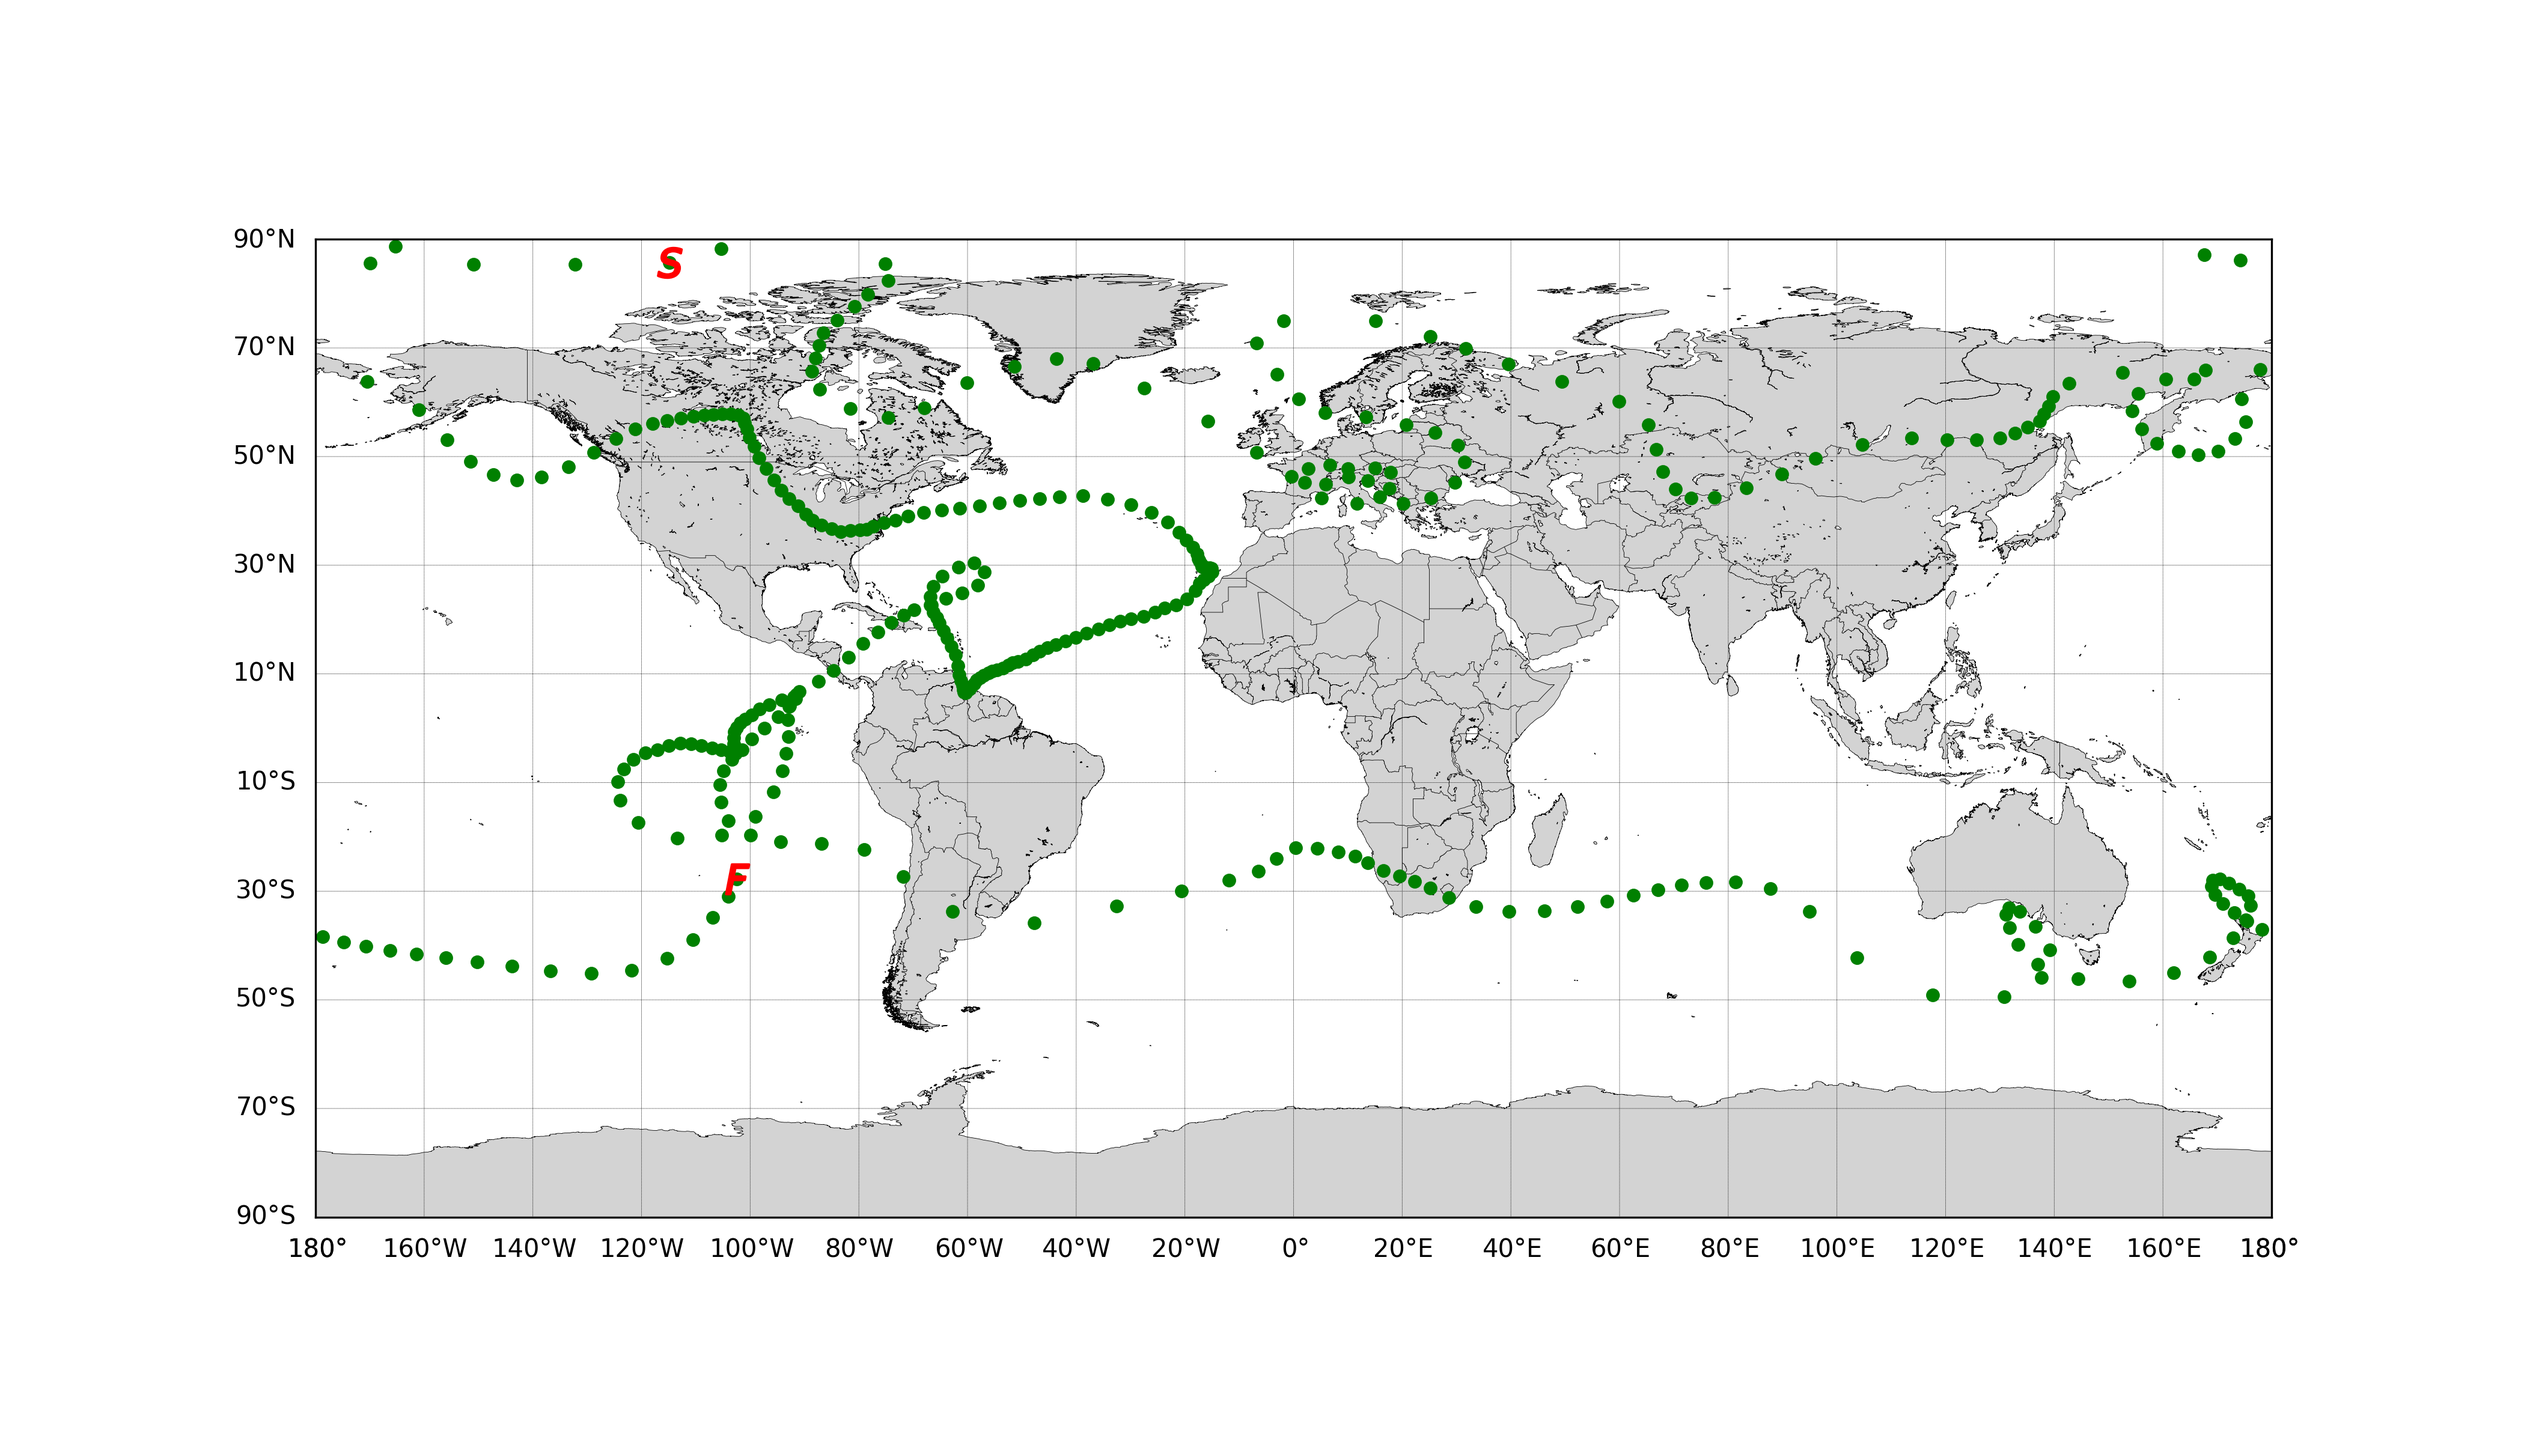
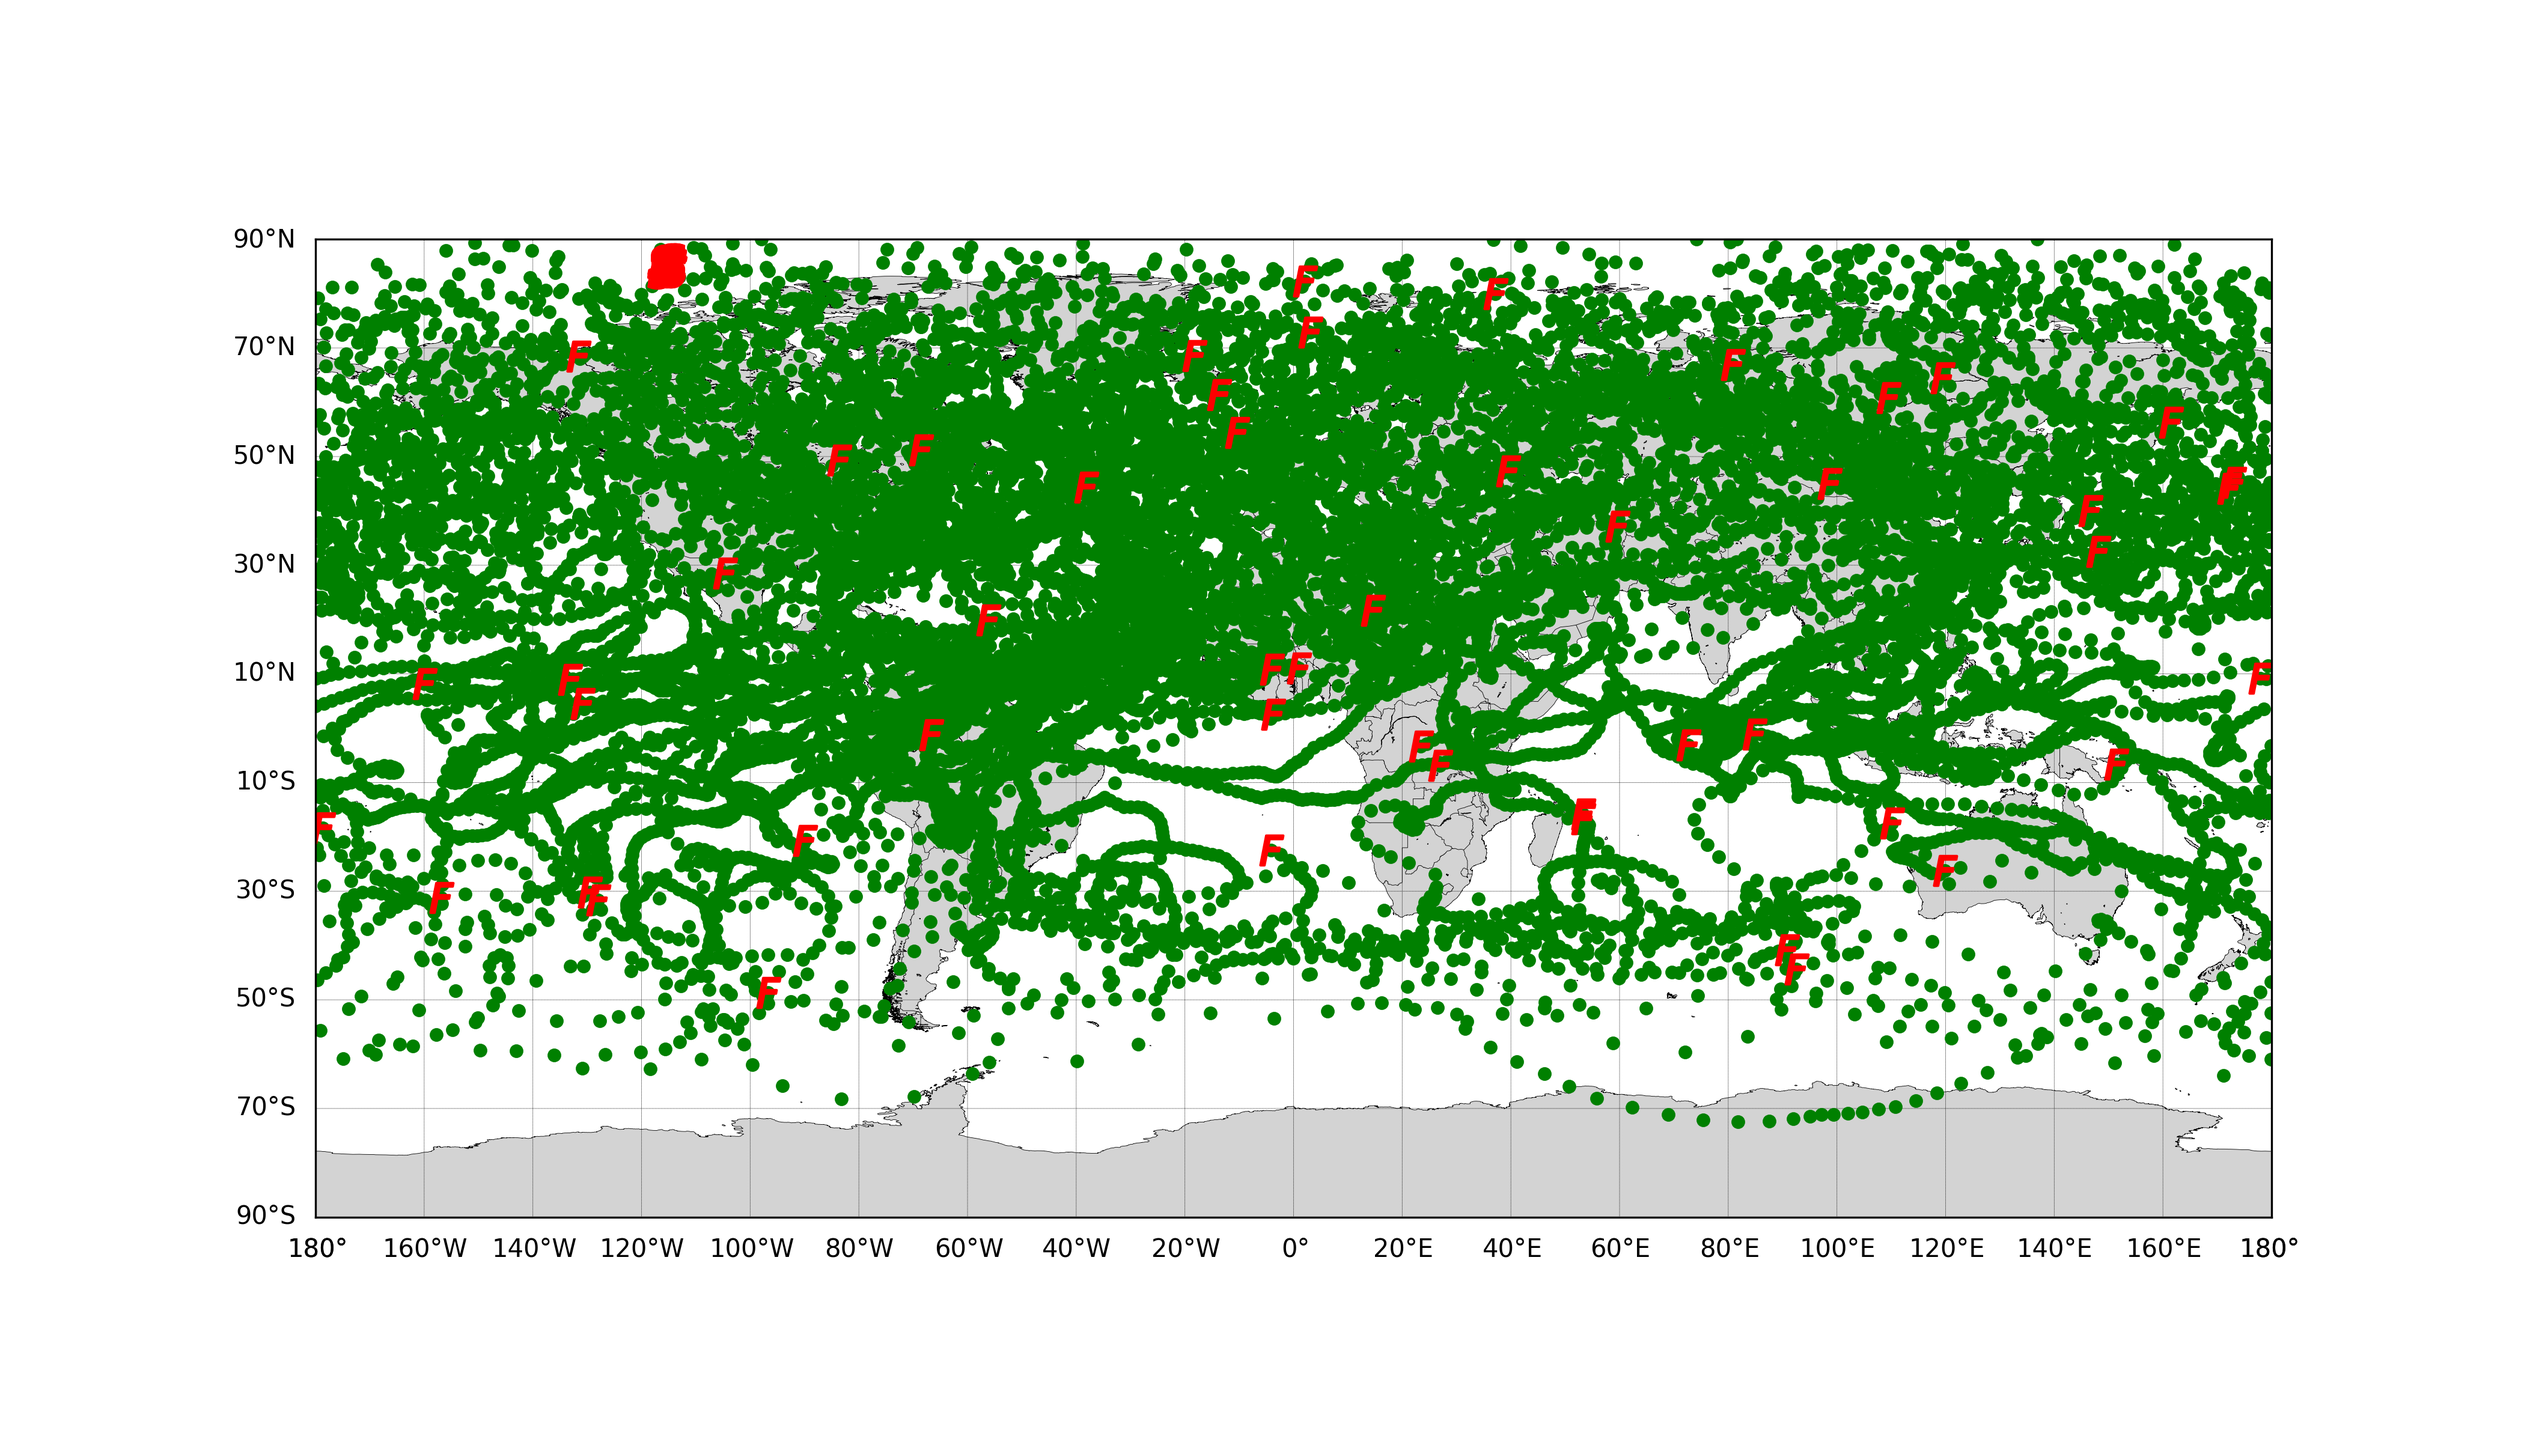
sdnbcxj

Changed region(s): [[0.1248, 0.1562, 0.9045, 0.75], [0.6862, 0.75, 0.7798, 0.7812]]

diff --git a/A04_GroupFiles_27 February, 2023 1109/sample_script.py b/A04_GroupFiles_27 February, 2023 1109/sample_script.py
@@ -16,12 +16,12 @@ import matplotlib.colors #To create new colorbar
 # =============================================================================
 
 #USER INPUT - File path
-f_string = 'C:/Users/31683/Desktop/project data/*' #Insert file path to input data, do not forget wildcard
+f_string = "C:/Users/joren/Documents/project data/Winter300/*" #Insert file path to input data, do not forget wildcard
 
 #USER INPUT - Switches to determine which data types should be loaded
 attila_switch = True
-o3tracer_switch = True
-rad_fluxes_switch = True
+o3tracer_switch = False
+rad_fluxes_switch = False
 
 #Read in file names based on f_string variable
 filenames_all = sorted(glob.glob(f_string)) #Get all file names in f_string
@@ -46,32 +46,32 @@ global_net_flx = [] #Holds all net fluxes for the 28 EPs (3 months)
 #Positions of air parcels
 if attila_switch == True:
     for file in filenames_all:
-        if 'attila.nc' in file:
-            data = Dataset(file,'r')
-            print('\n')
-            print('File loaded: ')
-            print(file)
-            
-            #Latitudes and longitudes
-            lats = data.variables['lat'][:]
-            lons_0to36 = data.variables['lon'][:] #Varies from 0 to 360 deg
-            lons_18to18 = data.variables['lon'][:] #Will be converted later to -180 to 180 deg
-            
-            #Time
-            temp = data.variables['time'][:]
-            time.append(temp)
-            
-            #Air parcel longitudinal position
-            temp = data.variables['PLON'][:]
-            plon.append(temp)
-            
-            #Air parcel latitudinal position
-            temp = data.variables['PLAT'][:]
-            plat.append(temp)
-            
-            #Air parcel pressure altitude
-            temp = data.variables['PPRESS'][:]
-            ppress.append(temp)
+        
+        data = Dataset(file,'r')
+        print('\n')
+        print('File loaded: ')
+        print(file)
+        
+        #Latitudes and longitudes
+        lats = data.variables['lat'][:]
+        lons_0to36 = data.variables['lon'][:] #Varies from 0 to 360 deg
+        lons_18to18 = data.variables['lon'][:] #Will be converted later to -180 to 180 deg
+        
+        #Time
+        temp = data.variables['time'][:]
+        time.append(temp)
+        
+        #Air parcel longitudinal position
+        temp = data.variables['PLON'][:]
+        plon.append(temp)
+        
+        #Air parcel latitudinal position
+        temp = data.variables['PLAT'][:]
+        plat.append(temp)
+        
+        #Air parcel pressure altitude
+        temp = data.variables['PPRESS'][:]
+        ppress.append(temp)
     
     #Concatenation of variables, lists become multi-dimensional numpy arrays
     time = np.concatenate(time, axis=0)
@@ -271,14 +271,14 @@ if attila_switch == True:
     mp.fillcontinents(color='lightgray')
     
     #Plot a Lagrangian air parcel with parcel ID given by "parcel2"
-    ax.scatter(plon[:,parcel2], plat[:,parcel2], s=20, marker='o', color='green',
+    ax.scatter(plon[:,:50], plat[:,:50], s=20, marker='o', color='green',
                zorder=2)
     
     #Plot start and end points with an "S" and "F" respectively.
-    ax.scatter(plon[0,parcel2], plat[0,parcel2], s=140, marker='$S$', color='red',
+    ax.scatter(plon[0,:50], plat[0,:50], s=140, marker='$S$', color='red',
                zorder=2)
     
-    ax.scatter(plon[-1,parcel2], plat[-1,parcel2], s=140, marker='$F$', color='red',
+    ax.scatter(plon[-1,:50], plat[-1,:50], s=140, marker='$F$', color='red',
                zorder=2)
     
     #Save and close the map plot

diff --git a/Group1 -Seas_Alt_Transport/Group4_version_Final_Attempt.py b/Group1 -Seas_Alt_Transport/Group4_version_Final_Attempt.py
@@ -383,7 +383,7 @@ for f_string in foldernamelist:
             lonmedian = np.median(plon[:,:50],axis = 1)
             print(lonmedian)
             latmedian = np.median(plat[:,:50],axis = 1)
-            lon180to180median = np.median(lons_18to18[:50],axis = 1)
+            lon180to180median = np.median(lons_18to18[:50])
 
             parcel2 = 25 #Parcel ID, 0 means first.
         
@@ -423,14 +423,14 @@ for f_string in foldernamelist:
             mp.fillcontinents(color='lightgray')
             
             #Plot a Lagrangian air parcel with parcel ID given by "parcel2"
-            ax.scatter(lonmedian[:50], latmedian[:50], s=20, marker='o', color='green',
+            ax.scatter(lonmedian[:], latmedian[:], s=20, marker='o', color='green',
                     zorder=2)
             
             #Plot start and end points with an "S" and "F" respectively.
-            ax.scatter(lonmedian[:50], latmedian[:50], s=140, marker='$S$', color='red',
+            ax.scatter(lonmedian[0], latmedian[0], s=140, marker='$S$', color='red',
                     zorder=2)
             
-            ax.scatter(lonmedian[:50], latmedian[:50], s=140, marker='$F$', color='red',
+            ax.scatter(lonmedian[-1], latmedian[-1], s=140, marker='$F$', color='red',
                     zorder=2)
             
             #Save and close the map plot
